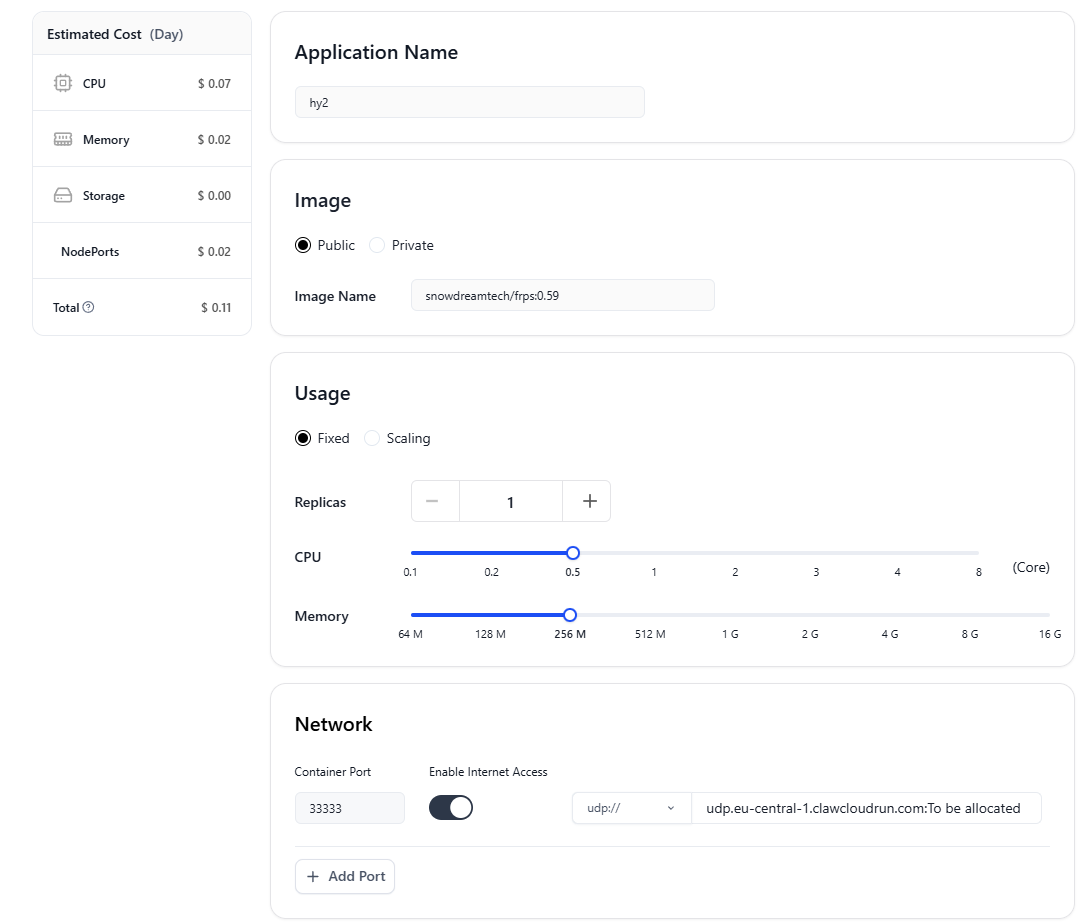
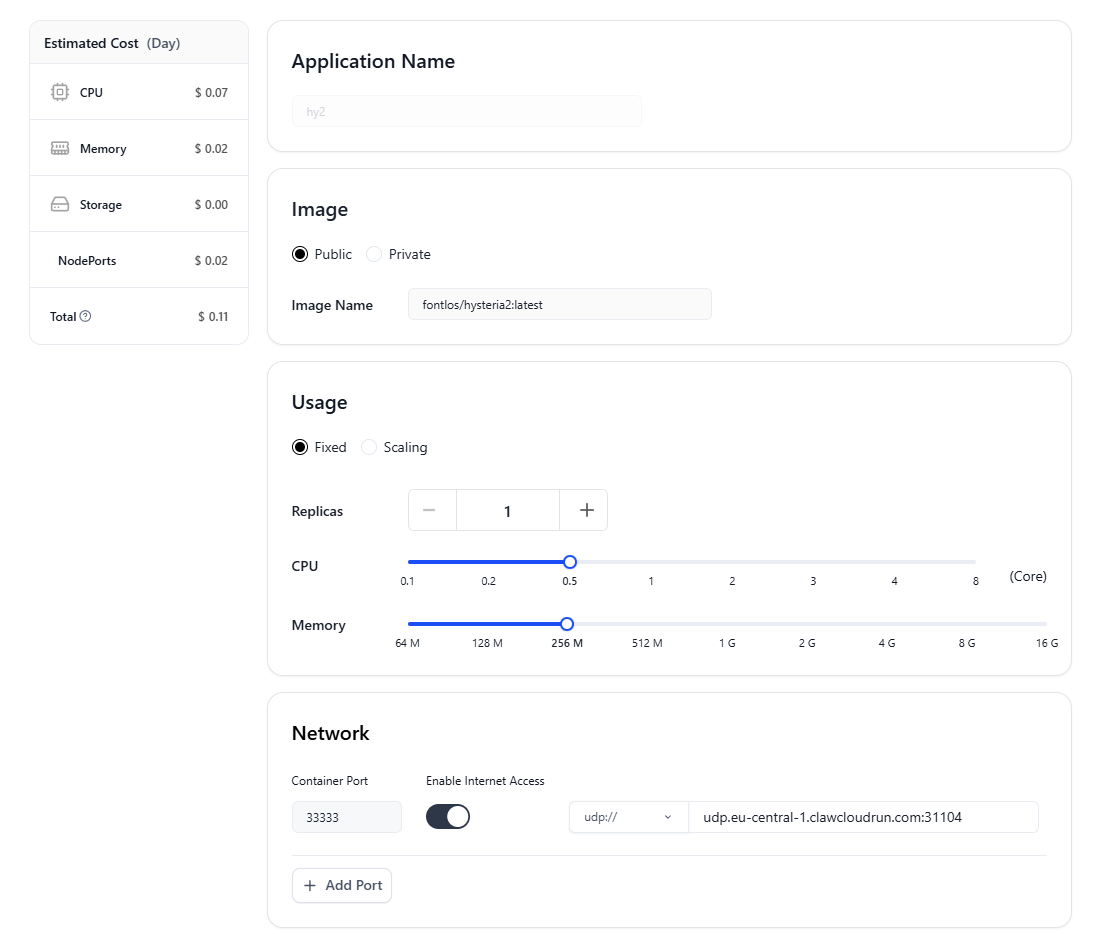
update: 使用 Claw 云容器

diff --git a/source/_posts/2025-05-07.md b/source/_posts/2025-05-07.md
@@ -2,7 +2,7 @@
 feature: false
 title: 使用 Claw 云容器改变自己的 IP (你懂的)
 date: 2025-05-07 16:00:00
-abstracts: Claw 似乎又称阿爪云, 好像因为是部署在阿里云上. 现在只要使用一个注册时间大于 180 天的 Github 用户登录就能每个月获取 5 美元的免费额度, 搭建一些轻量级小应用, 例如内网穿透, RustDesk 等绰绰有余了
+abstracts: 使用 Claw 云容器改变自己的 IP (你懂的, 不能多说)
 tags:
     - Claw
     - Magic
@@ -10,19 +10,21 @@ categories:
     - Note
 cover: https://fontlos.com/icons/logo.png
 ---
-> **Warning**
+> **Warning!!!**
 >
-> 本文所述网络代理技术仅限合法合规用途, 包括但不限于学术研究, 技术学习及网络安全测试. 笔者坚决拥护中国共产党的领导, 严格遵守《中华人民共和国网络安全法》《互联网信息服务管理办法》等法律法规, 反对任何利用技术手段破坏网络秩序, 侵犯他人隐私或绕过监管的违法行为. 所有技术讨论均以提升网络安全意识, 促进技术交流为目的, 读者须承诺遵守国家法律并承担因不当使用技术可能产生的一切法律责任. 特此声明.
+> 本文所述技术仅限合法合规用途, 包括但不限于学术研究, 技术学习及网络安全测试. 笔者坚决拥护中国共产党的领导, 严格遵守《中华人民共和国网络安全法》《互联网信息服务管理办法》等法律法规, 反对任何利用技术手段破坏网络秩序, 侵犯他人隐私或绕过监管的违法行为. 所有技术讨论均以提升网络安全意识, 促进技术交流为目的, 读者须承诺遵守国家法律并承担因不当使用技术可能产生的一切法律责任. 特此声明.
 
 之前的文章让大家领了 **Claw** 和 **Gemini**, 今天让我们来用一下, 用前者改变自己的 IP 来使用后者, 你懂的 :)
 
 # 部署容器
 
-首先我们在 Claw 中选择 **App Launchpad**, 创建一个应用. 应用名随便填. 然后我们需要一个轻量级的可以使用 Linux 命令的容器, 默认的镜像做不到, 所以我们换一个, 例如 `snowdreamtech/frps:0.59`, 配置方面, 0.5h0.25g 甚至更低即可, 我们不需要多大配置 (实测这个配置多数时候面板 CPU 占用 15% 左右, 内存占用 30% 左右, 所以还能压, 而且会更便宜)
+我制作了一个 Docker 镜像, 直接用就可以, 名字就不写了(害怕), 可以去我的 Github 找或者见下图. 直接部署就可以, 默认会监听 `33333` 端口并使用自签证书
 
-在最下面储存卷那里, 随便挂在一个文件夹即可, 大小最小只能选那个 1g, 名字可以用默认的 `/data`
+对于这次用到的 Claw 平台, 在控制面板选择 **App Launchpad**, 创建一个应用. 应用名随便填. 使用我提供的镜像, 配置方面, 0.5h0.25g 甚至更低即可, 我们不需要多大配置 (实测这个配置多数时候面板 CPU 占用 15% 左右, 内存占用 30% 左右, 所以还能压, 而且会更便宜)
 
-然后就是网络配置, 随便开放一个端口即可, 可以选的高位一点, 但是这样虽然比较隐秘, 但也特征明显. 协议类型选 UDP
+如果你想覆盖默认的服务端配置, 或者想进行下面提到的**进阶配置**, 可以在最下面储存卷那里, 随便挂载一个 `/data` 文件夹覆盖掉默认的, 大小最小只能选 1g. 我建议你至少修改掉默认的密码
+
+然后就是网络配置, 默认使用 `33333`, 当然你也可以覆盖配置然后随便开放一个端口即可, 可以选的高位一点, 但是这样虽然比较隐秘, 但也特征明显. 协议类型选 UDP
 
 除了储存卷, 配置大概这样
 
@@ -32,7 +34,9 @@ cover: https://fontlos.com/icons/logo.png
 
 简单等待一会, 容器就部署好了
 
-打开部署好的应用面板, 在网络那里, 可以看到我们自己开放的端口, 以及映射到的 UDP 链接, 注意这个 UDP 链接自己也有一个端口, 而且大概率和我们开放的端口不同
+打开部署好的应用面板, 在网络那里, 可以看到我们自己开放的端口, 以及映射到的 UDP 链接, 注意这个 UDP 链接自己也有一个端口, 而且大概率和我们开放的端口不同, 这和云服务器平台不同, 如果你使用服务器, 开放哪个端口就是哪个
+
+如果你不打算进阶配置, 连默认密码也不想改, 无需挂载储存卷, 然后在下面的部分获取公网 IP 就可以跳过服务端配置直接用了
 
 # 配置应用
 
@@ -46,66 +50,58 @@ cover: https://fontlos.com/icons/logo.png
 sh: bash: not found
 ```
 
-这是没有找到 `bash` 于是回退到 `sh` 终端, 也就是我们主要使用的终端, 但我们现在不使用它
+这是没有找到 `bash` 于是回退到 `sh` 终端, 这是容器内的终端, 也是我们主要使用的终端
 
-## 获取公网 IP
-
-当前窗口再新建一个终端, 这个终端将在根目录, 执行
-
-```sh
-curl -s ip.sb
-```
-
-这可以获取本机的公网 IP, 记住它, 然后关掉整个终端的窗口
-
-## 安装应用
-
-重新启动终端, 来到我们说的主要使用的终端
-
-首先看一下我们的容器系统, 执行
+看一下我们的容器系统, 执行
 
 ```sh
 cat /etc/os-release
 
 # NAME="Alpine Linux"
 # ID=alpine
-# VERSION_ID=3.20.2
 ```
 
-可以看到是一个很轻量级的 Alpine Linux, 然后安装我们的程序, 先进入挂载的储存卷, 例如我这里是 `/data`
+我选择了一个很轻量级的 Alpine Linux
+
+## 获取公网 IP
+
+当前窗口再新建一个终端, 这个终端将在容器外根目录, 执行
 
 ```sh
-cd data
-
-# 根据系统安装即可
-wget https://github.com/apernet/hysteria/releases/download/app%2Fv2.6.1/hysteria-linux-amd64
-
-# 重命名方便后续操作
-mv hysteria-linux-amd64 hy
-
-# 赋予可执行权限
-
-chmod +x hy
+curl -s ip.sb
 ```
 
-## 创建证书
+这可以获取本机的公网 IP, 记住它.
 
-简单的使用一个自签证书即可, 文件名随便即可
+## 修改服务端配置
 
-```sh
-openssl genrsa -out <KEY>.key 2048
-openssl req -new -x509 -key <KEY>.key -out <CERT>.crt -days 36000
+如果你挂载了 `/data` 储存卷, 那么也会覆盖掉默认的配置, 这会导致找不到配置文件于是容器启动失败, 不过你可以在本地编写一个配置, 然后上传到储存卷, 在我们上面哪个打开终端的按钮旁边就是打开文件夹的按钮
+
+默认配置如下
+
+```yaml
+listen: :33333
+speedTest: true
+tls:
+  cert: /etc/hysteria/default_certs/default.crt
+  key: /etc/hysteria/default_certs/default.key"
+  sniGuard: disable
+auth:
+  type: password
+  password: YourStrongPasswordHere
 ```
 
-## 服务端配置
+所以我建议你覆盖一下, 使用自己的密码, 也可以修改端口号, 两个证书文件是提前准备好的自签证书, 上传配置到 `/data` 命名成 `s.yaml` 之后重启容器, 容器应该正常运行了
 
-然后使用自带的 VI 编辑器就够用了, 创建一个配置
+注意 Claw 上传文件很可能失败, 检查一下文件大小是否异常, 比如为 0
+
+你可以在本地就修改成自己需要的, 也可以上传后, 使用自带的 VI 编辑器修改
 
 ```sh
 vi s.yaml
 ```
 
-输入以下配置
+格式如下
 
 ```yaml
 listen: :<PORT>
@@ -119,15 +115,14 @@ auth:
   password: <PASSWORD>
 ```
 
-注意, 这里的端口是配置应用时自己填的那个, 不是映射到 UDP 的那个
-
-对于一般的使用, 这就足够了, 然后启用服务端
+注意, 这里的端口是配置应用时自己填的那个, 不是映射到 UDP 的那个. 容器也打包了 `openssl`, 你可以自己生成一个自签证书, 例如
 
 ```sh
-./hy server -c s.yaml
+openssl genrsa -out <KEY>.key 2048
+openssl req -new -x509 -key <KEY>.key -out <CERT>.crt -days 36000
 ```
 
-如果没发生报错, 则启动成功, 此时这个终端可以关掉了, 不会影响程序运行
+然后再次重启容器, 如果容器正常运行, 则启动成功, 可以在日志里面看到正确监听了端口
 
 ## 客户端配置
 
@@ -142,17 +137,17 @@ auth:
   skip-cert-verify: true
 ```
 
-这里的 IP 是我们之前查的公网 IP, 端口是映射到 UDP 的端口
+名称随便填, 这里的 IP 是我们之前查的公网 IP, 端口是映射到 UDP 的端口
 
 因为我们是自签证书所以需要跳过验证, 这可能会导致一些中间人攻击
 
 # 进阶配置
 
-如果你想进一步利用这个协议关于 SNI 的一些特点, 增强安全性, 并且有一个自主可控的域名, 可以继续看这些
+如果你想进一步利用这个协议关于 SNI 的一些特点, 增强安全性, 并且有一个自主可控的托管在 Cloudflare 的域名, 可以继续看这些
 
-这里我的域名托管在 Cloudflare 上, 新建一个看起来人畜无害的二级域名, 指向一个看起来人畜无害的地址, 比如 `0.0.0.0`, `1.1.1.1` 等, 我们将配置 **Certbot** 并使用 **Cloudflare DNS-01 质询** 来申请证书, 因此无需将域名解析到这个服务器上, 最大程度减少我们的域名与这个服务的关联, 避免被封域名.
+新建一个看起来人畜无害的二级域名, 指向一个看起来人畜无害的地址, 比如 `0.0.0.0`, `1.1.1.1`, `223.5.5.5`等, 无需开启代理, 仅 DNS 即可, 我们将配置 **Certbot** 并使用 **Cloudflare DNS-01 质询** 来申请证书, 因此无需将域名解析到这个服务器上, 最大程度减少我们的域名与这个服务的关联, 避免被封域名.
 
-## 安装应用
+我们的容器已经打包了 Certbot 与 `certbot-dns-cloudflare` 插件
 
 首先我们创建几个文件夹用于持久化配置, 防止容器重启后配置消失
 
@@ -160,35 +155,6 @@ auth:
 mkdir -p /data/letsencrypt_config
 mkdir -p /data/cloudflare_secrets
 ```
-
-因为 Certbot 依赖 Python, 所以我们先安装一个 Python 环境, 反正分配 1g 存储不用白不用 (这暂时不起作用)
-
-```sh
-wget https://github.com/astral-sh/python-build-standalone/releases/download/20250409/cpython-3.12.10+20250409-x86_64-unknown-linux-musl-install_only.tar.gz -O /tmp/python_install.tar.gz
-# 这将解压到 /data/python
-tar -xzf /tmp/python_install.tar.gz -C /data
-```
-
-然后创建一个虚拟环境并安装 Certbot
-
-```sh
-/data/python/bin/python3 -m venv /data/certbot_venv
-
-# 更新 pip, 可选
-/data/certbot_venv/bin/pip install --upgrade pip
-
-/data/certbot_venv/bin/pip install certbot certbot-dns-cloudflare
-```
-
-当然如果你不嫌每次重启都需要重装 Python 环境和 Certbot, 对于我们的 Alpine Linux 可以直接
-
-```sh
-apk update
-apk upgrade
-apk add certbot certbot-dns-cloudflare
-```
-
-反正能持久化配置文件才更重要, 安装程序并不复杂, 而且这样还能防止某些包失效, 可能更方便一点
 
 ## 获取 Cloudflare Token
 
@@ -224,9 +190,9 @@ certbot certonly \
     --no-eff-email
 ```
 
-其中第二行是最重要的参数, 储存了关键配置信息, 参数 `30` 是留给 Cloudflare DNS 生效的响应时间, 这通常很快, 30 秒足以, 不放心可以设置成 60. 如果没发生任何报错, 那么证书就申请成功了
+参数按照你实际的进行即可, 其中第二行是最重要的参数, 储存了关键配置信息, 参数 `30` 是留给 Cloudflare DNS 生效的响应时间, 这通常很快, 30 秒足以, 不放心可以设置成 60. 如果没发生任何报错, 那么证书就申请成功了
 
-检查更新证书是否正常工作
+测试一下更新证书是否正常工作, 这不会真的更新证书
 
 ```sh
 certbot renew \
@@ -246,7 +212,7 @@ key: /data/letsencrypt_config/live/<YOUR DOMIAN>/privkey.pem
 sniGuard: strict
 ```
 
-然后重新启动服务端, 并修改客户端
+然后重新启动容器, 并修改客户端
 
 ```yaml
 sni: <YOUR DOMAIN>
